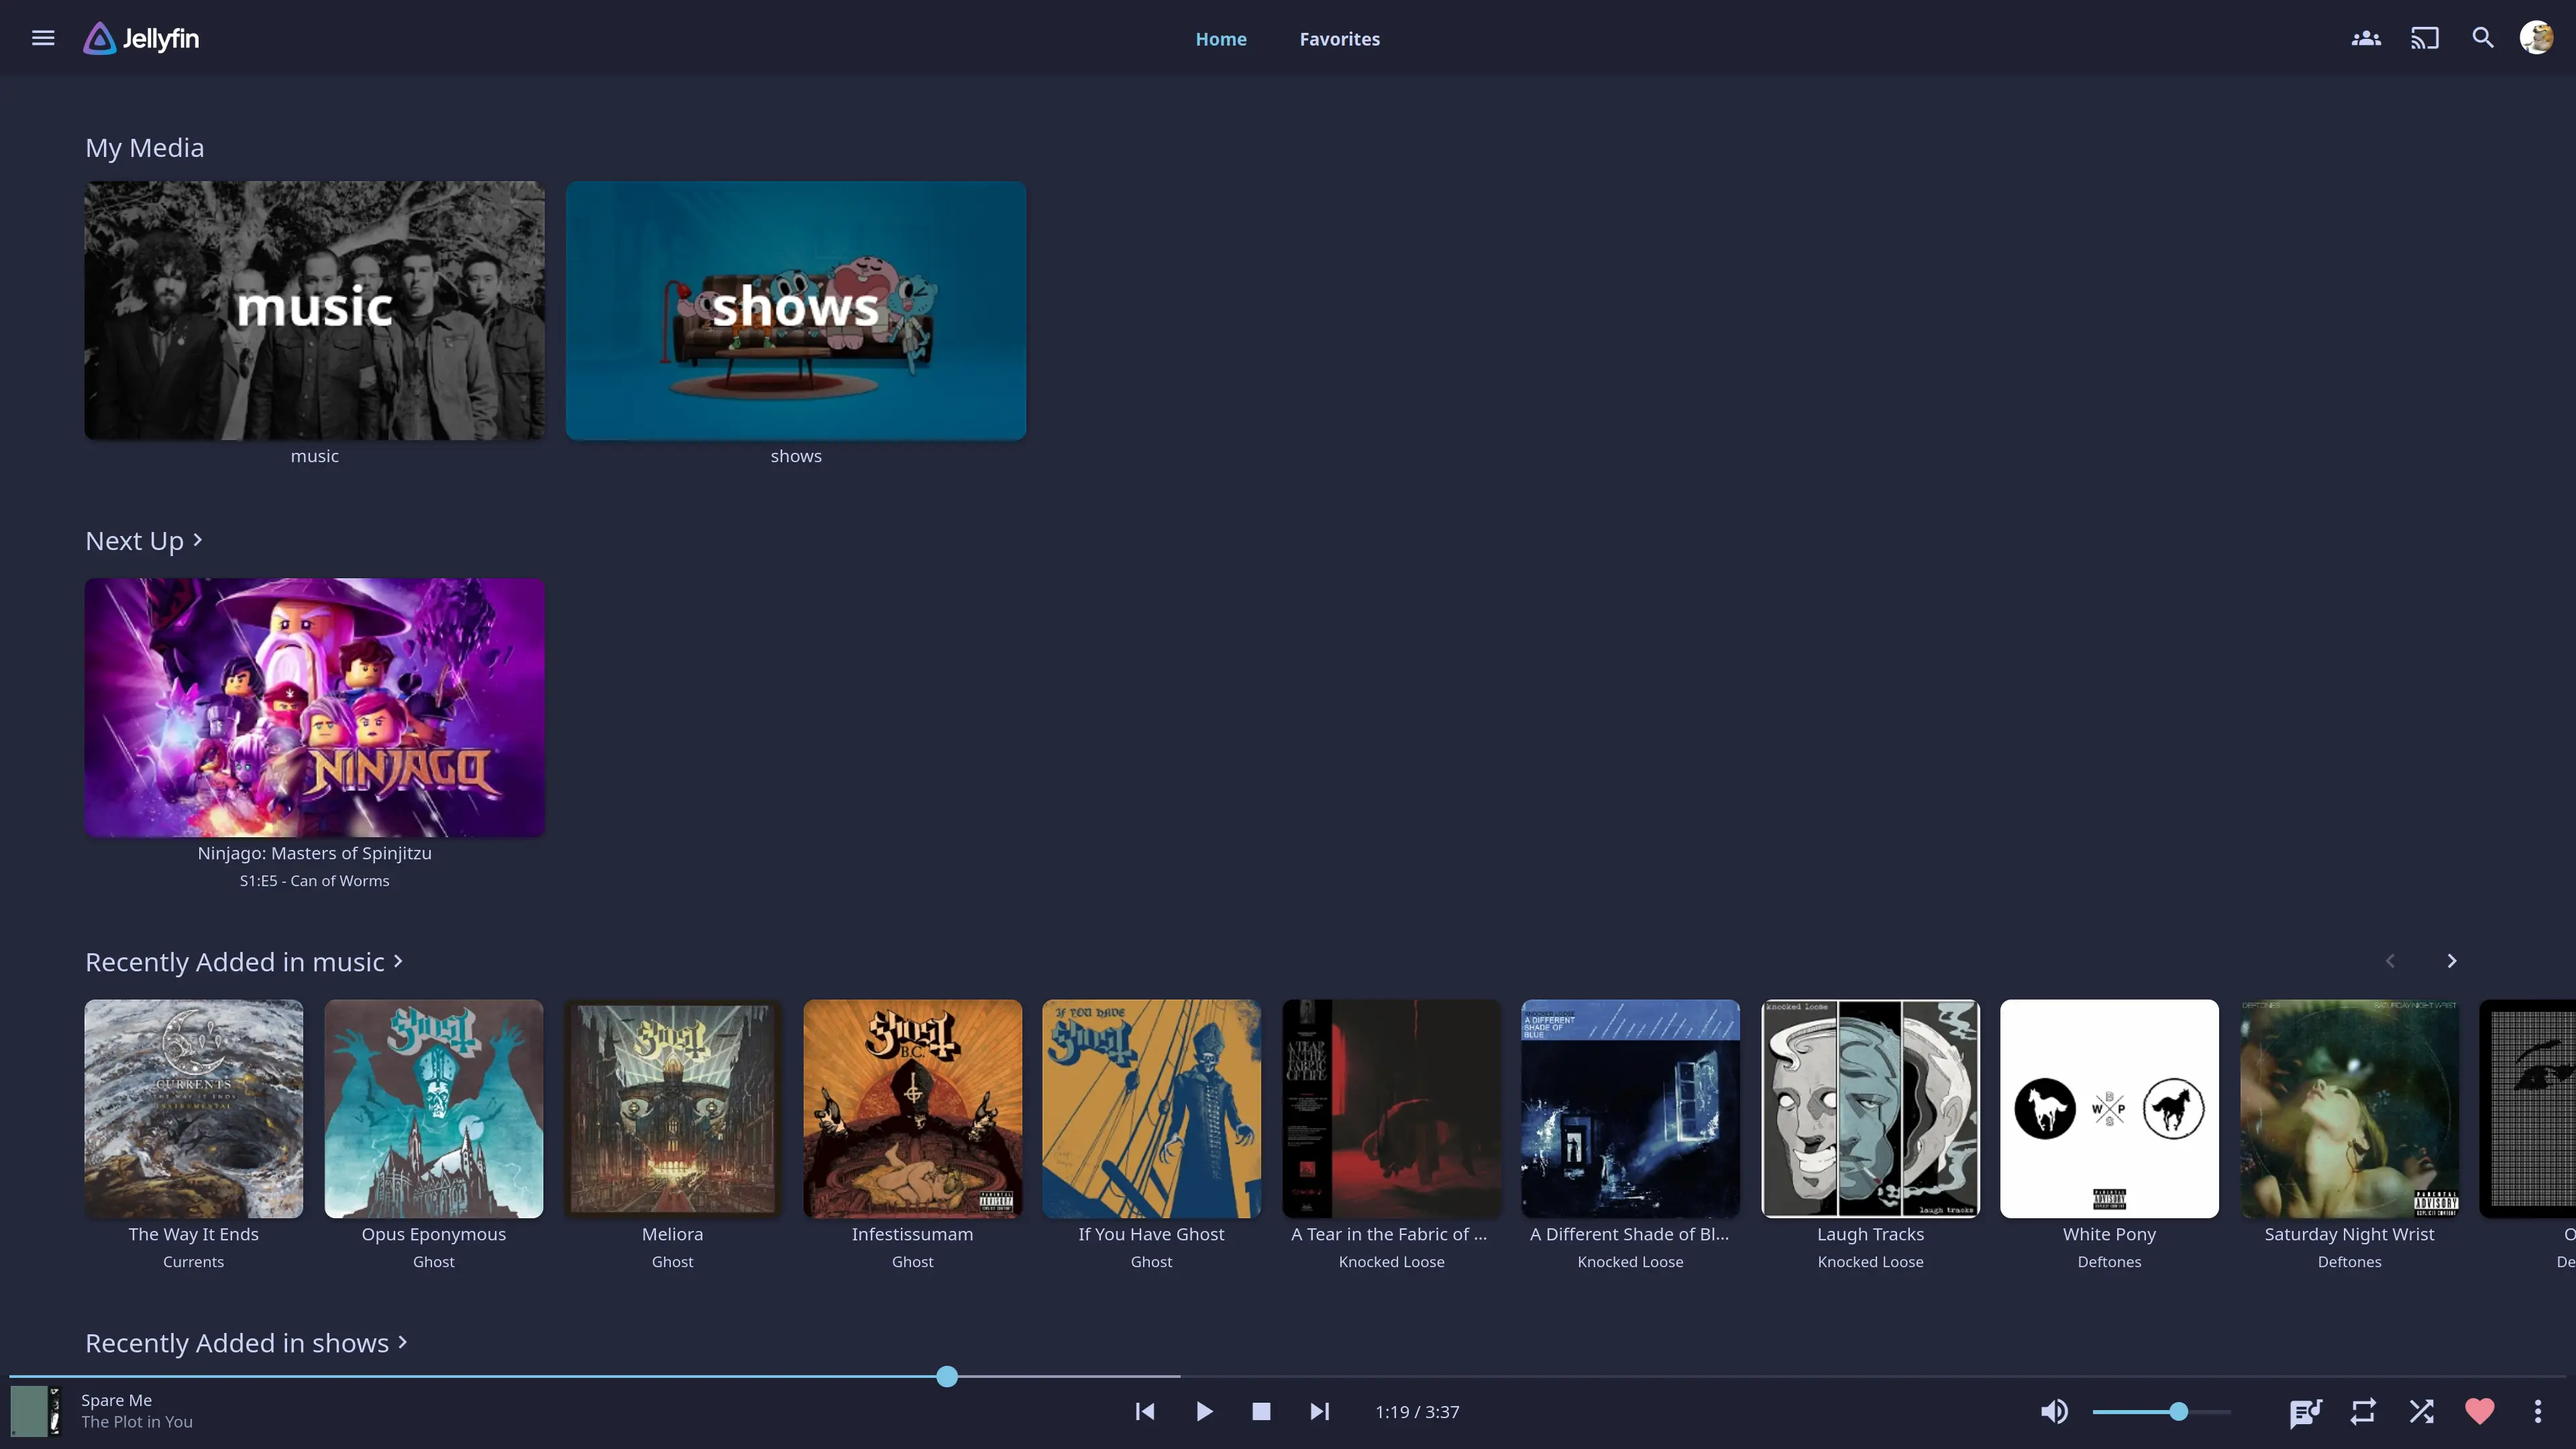
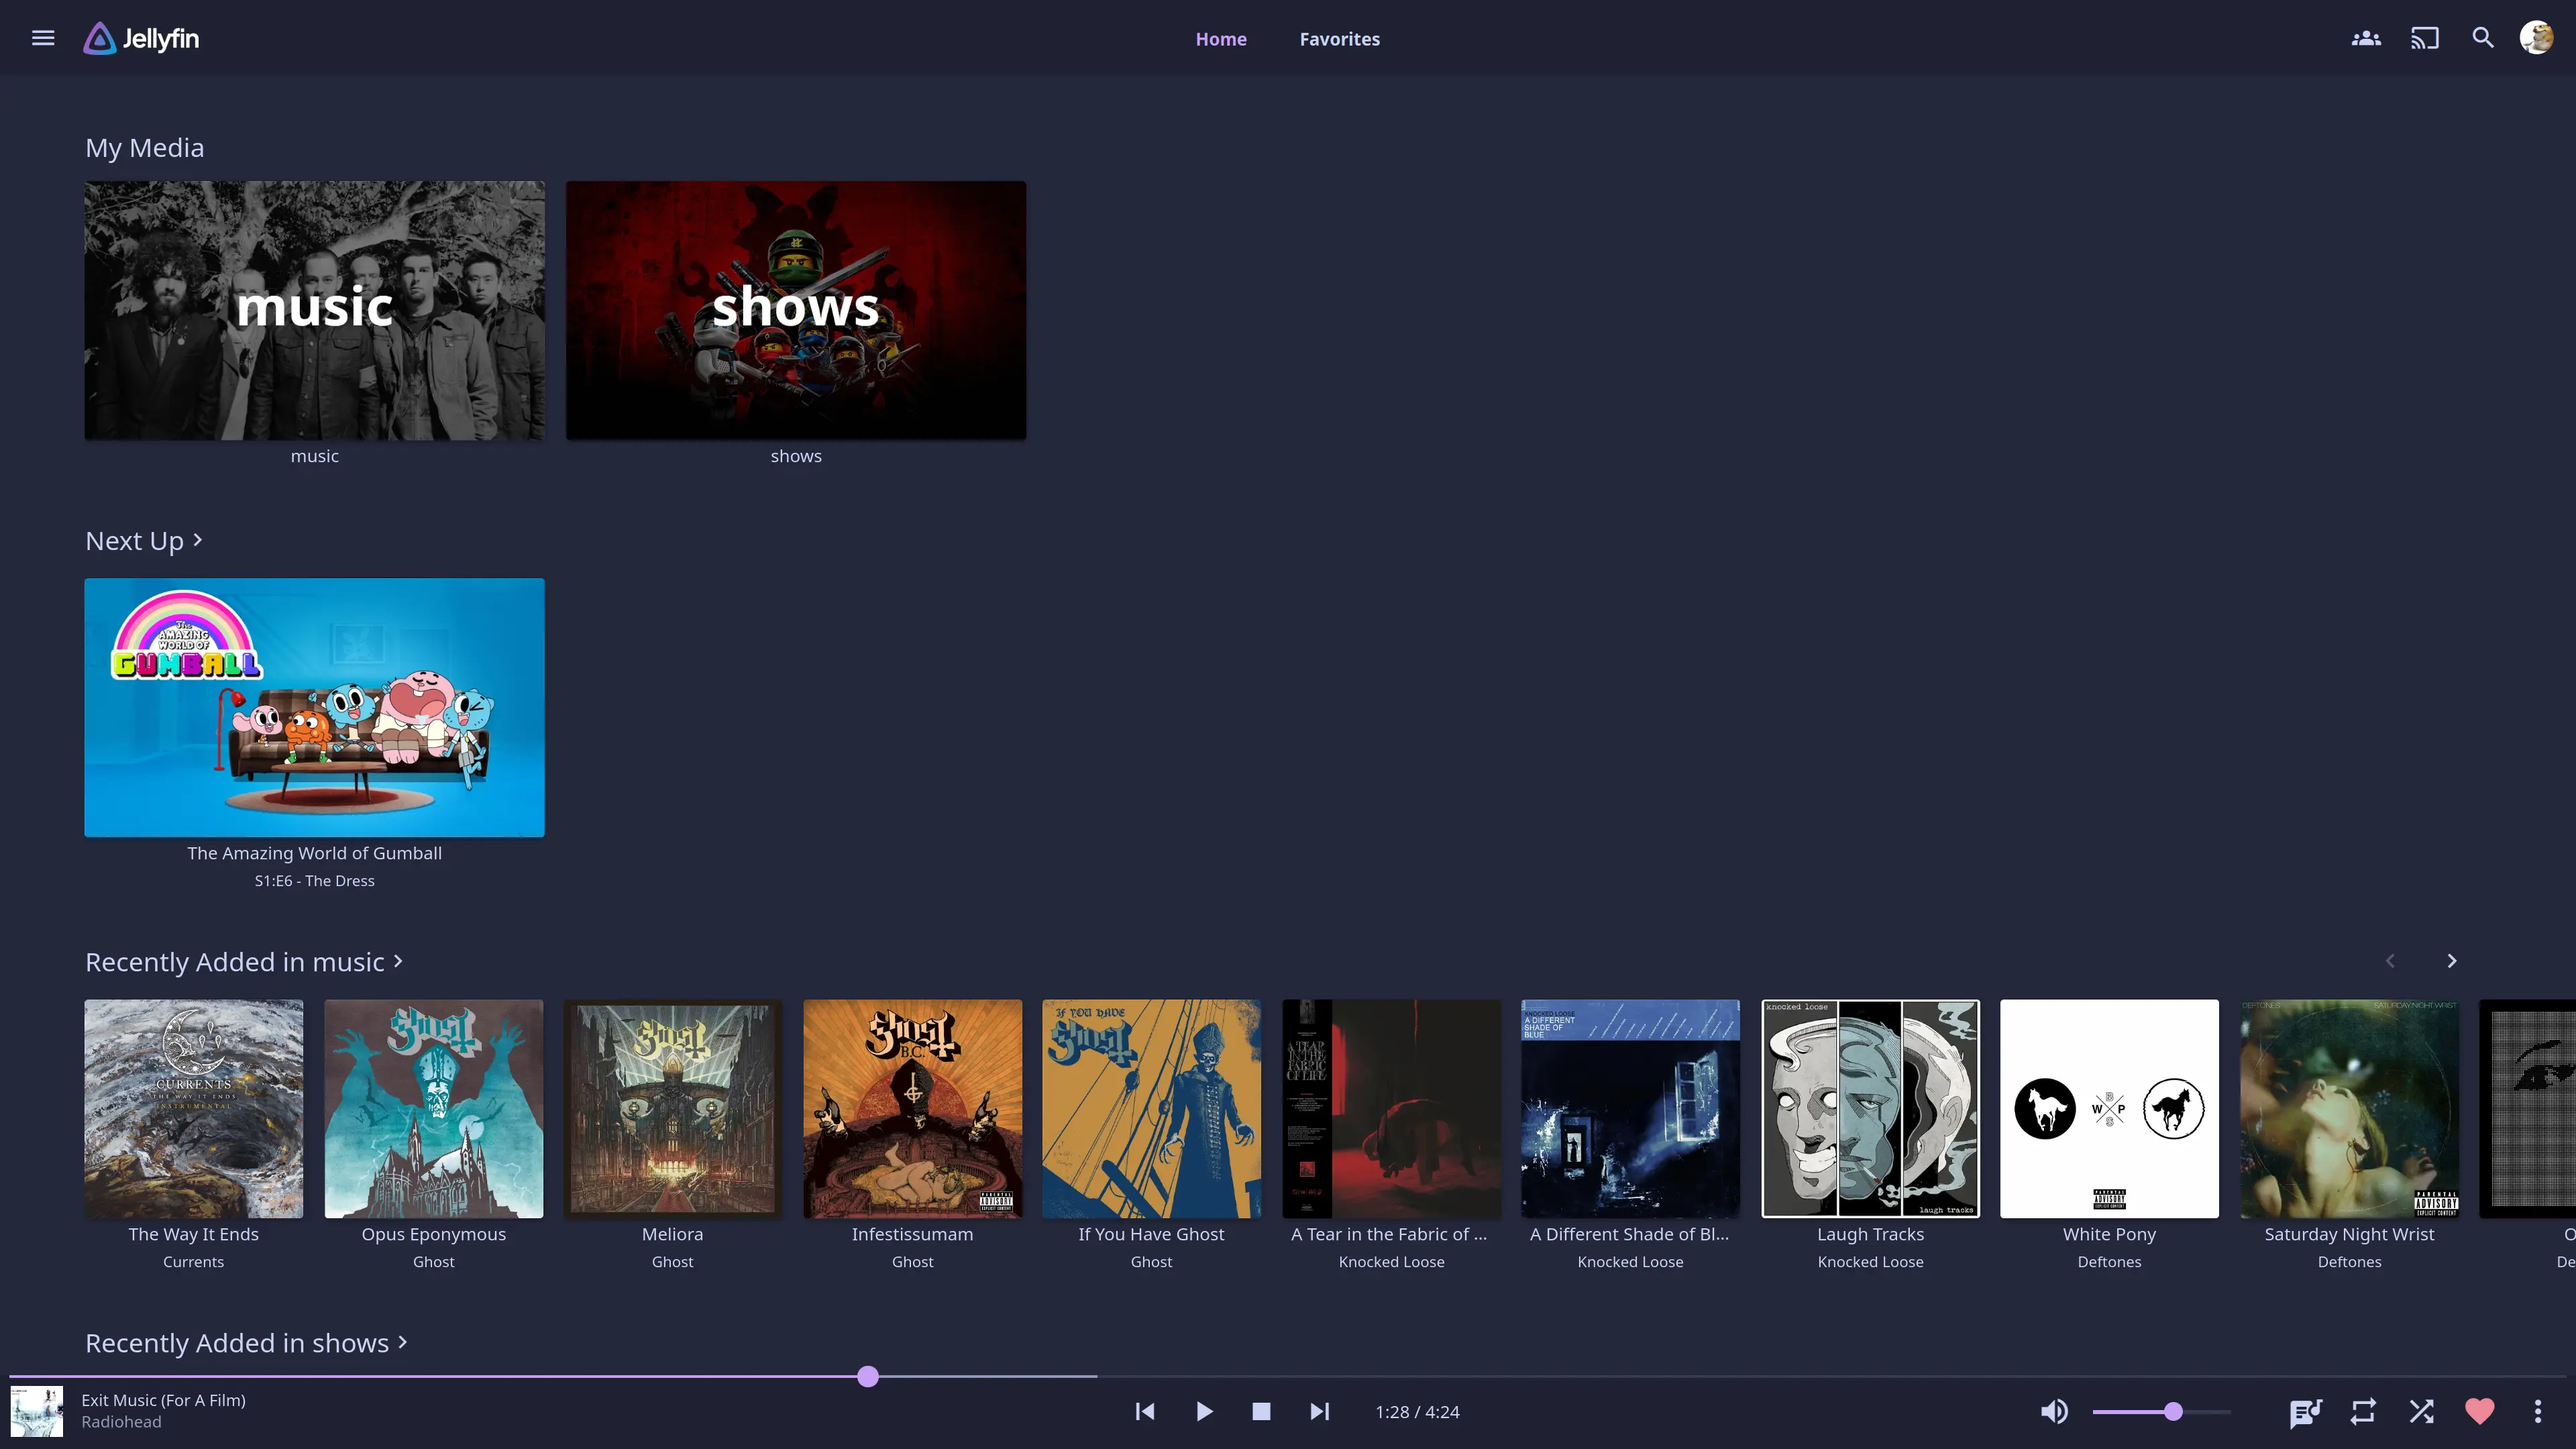
refact!: prepare for transfer
apply @sgoudham's suggestions
ref https://github.com/catppuccin/catppuccin/issues/2696#issuecomment-2707252468

changes:
- removed every styling outside of the colors themselves (i.e. rounding,
  `text-shadow` & `padding`)
- changed the default accent color to `mauve`
- renamed flavour CSS filenames from `<f>.css` to `catppuccin-<f>.css`

diff --git a/themes/theme.css b/themes/theme.css
@@ -5,13 +5,11 @@
 ::-moz-selection {
   background: var(--main-color);
   color: var(--main-background);
-  text-shadow: none;
 }
 
 ::selection {
   background: var(--main-color);
   color: var(--main-background);
-  text-shadow: none;
 }
 
 .mdl-slider-background-upper {
@@ -323,8 +321,4 @@ div[role=presentation].jstree-wholerow-clicked {
 
 .itemProgressBar.backgroundProgress .itemProgressBarForeground {
   background-color: var(--hover-background) !important;
-}
-
-.nowPlayingInfoControls {
-  padding-left: 10px;
 }

diff --git a/themes/catppuccin-frappe.css b/themes/catppuccin-frappe.css
@@ -14,7 +14,7 @@
   --blue: #8caaee;
   --lavender: #babbf1;
 
-  --main-color: var(--sapphire);
+  --main-color: var(--mauve);
   --main-background: #303446;
   --second-background: #292c3c;
   --hover-background: #414559;

diff --git a/themes/catppuccin-latte.css b/themes/catppuccin-latte.css
@@ -14,7 +14,7 @@
   --blue: #1e66f5;
   --lavender: #7287fd;
 
-  --main-color: var(--sapphire);
+  --main-color: var(--mauve);
   --main-background: #eff1f5;
   --second-background: #e6e9ef;
   --hover-background: #ccd0da;

diff --git a/themes/catppuccin-macchiato.css b/themes/catppuccin-macchiato.css
@@ -14,7 +14,7 @@
   --blue: #8aadf4;
   --lavender: #b7bdf8;
 
-  --main-color: var(--sapphire);
+  --main-color: var(--mauve);
   --main-background: #24273a;
   --second-background: #1e2030;
   --hover-background: #363a4f;

diff --git a/themes/catppuccin-mocha.css b/themes/catppuccin-mocha.css
@@ -14,7 +14,7 @@
   --blue: #89b4fa;
   --lavender: #b4befe;
 
-  --main-color: var(--sapphire);
+  --main-color: var(--mauve);
   --main-background: #1e1e2e;
   --second-background: #181825;
   --hover-background: #313244;

diff --git a/README.md b/README.md
@@ -44,13 +44,13 @@
 3. Copy your preferred flavor's import rule and paste it **after** the theme import:
     ```css
     /* 🌻 Latte */
-    @import url('https://adamperkowski.github.io/jellyfin/latte.css');
+    @import url('https://adamperkowski.github.io/jellyfin/catppuccin-latte.css');
     /* 🪴 Frappé */
-    @import url('https://adamperkowski.github.io/jellyfin/frappe.css');
+    @import url('https://adamperkowski.github.io/jellyfin/catppuccin-frappe.css');
     /* 🌺 Macchiato */
-    @import url('https://adamperkowski.github.io/jellyfin/macchiato.css');
+    @import url('https://adamperkowski.github.io/jellyfin/catppuccin-macchiato.css');
     /* 🌿 Mocha */
-    @import url('https://adamperkowski.github.io/jellyfin/mocha.css');
+    @import url('https://adamperkowski.github.io/jellyfin/catppuccin-mocha.css');
     ```
 4. Press save and you're done!
 
@@ -59,24 +59,9 @@
 The accent color can be overrided by adding the following **after** the imports:
 ```css
 :root {
-    --main-color: var(--mauve);
+    --main-color: var(--sapphire);
 }
 ```
-
-<details>
-    <summary>Preview</summary>
-    <img src="/assets/mauve.webp"/>
-</details>
-
-There is also an everything-rounded extension available:
-```css
-@import url('https://adamperkowski.github.io/jellyfin/rounding.css');
-```
-<details>
-    <summary>Preview</summary>
-    <img src="/assets/rounding0.webp"/>
-    <img src="/assets/rounding1.webp"/>
-</details>
 
 ## 💝 Thanks to
 
